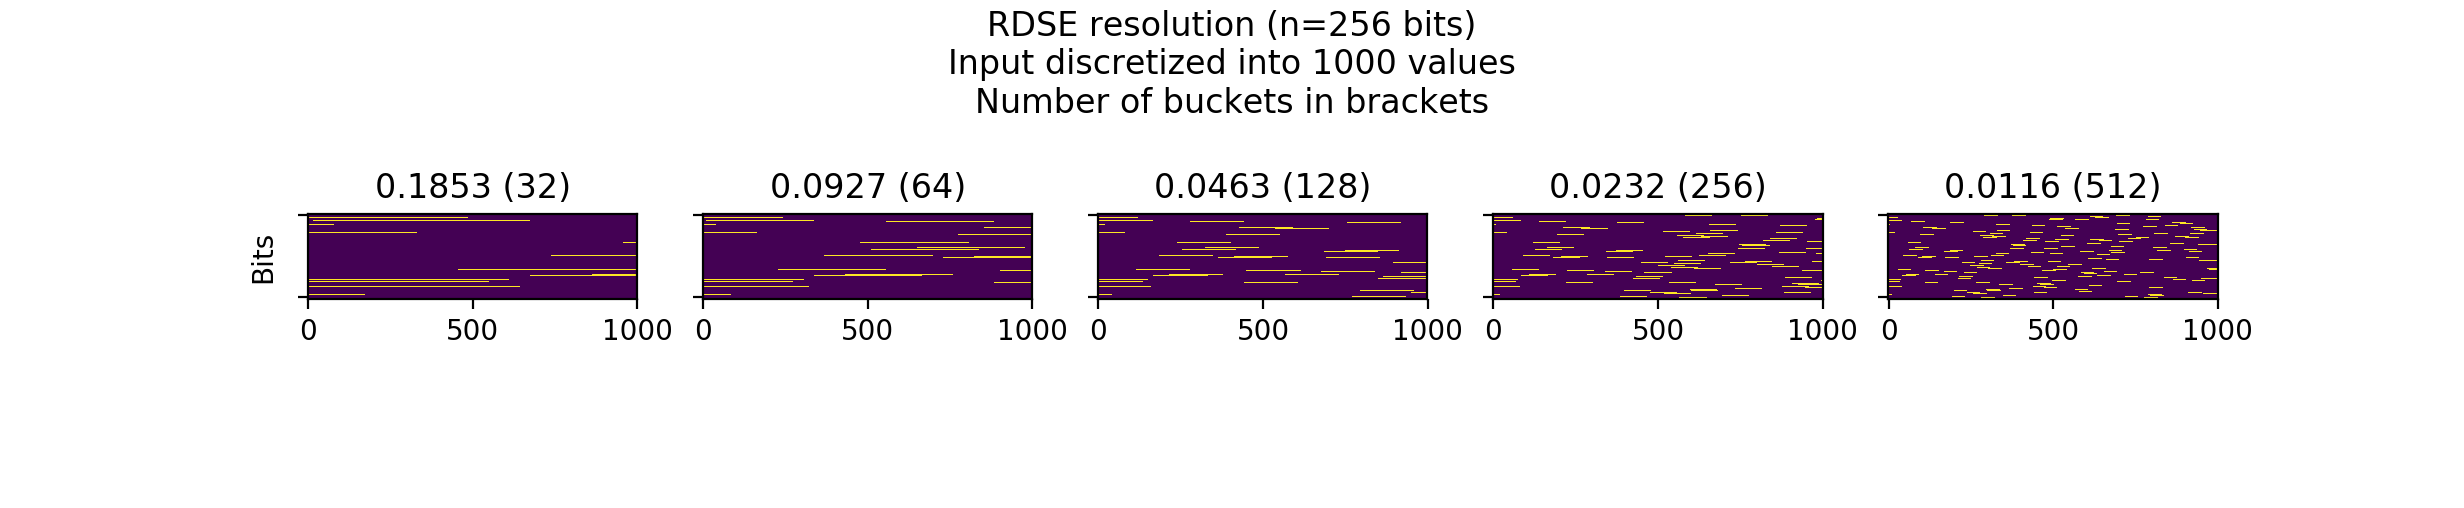
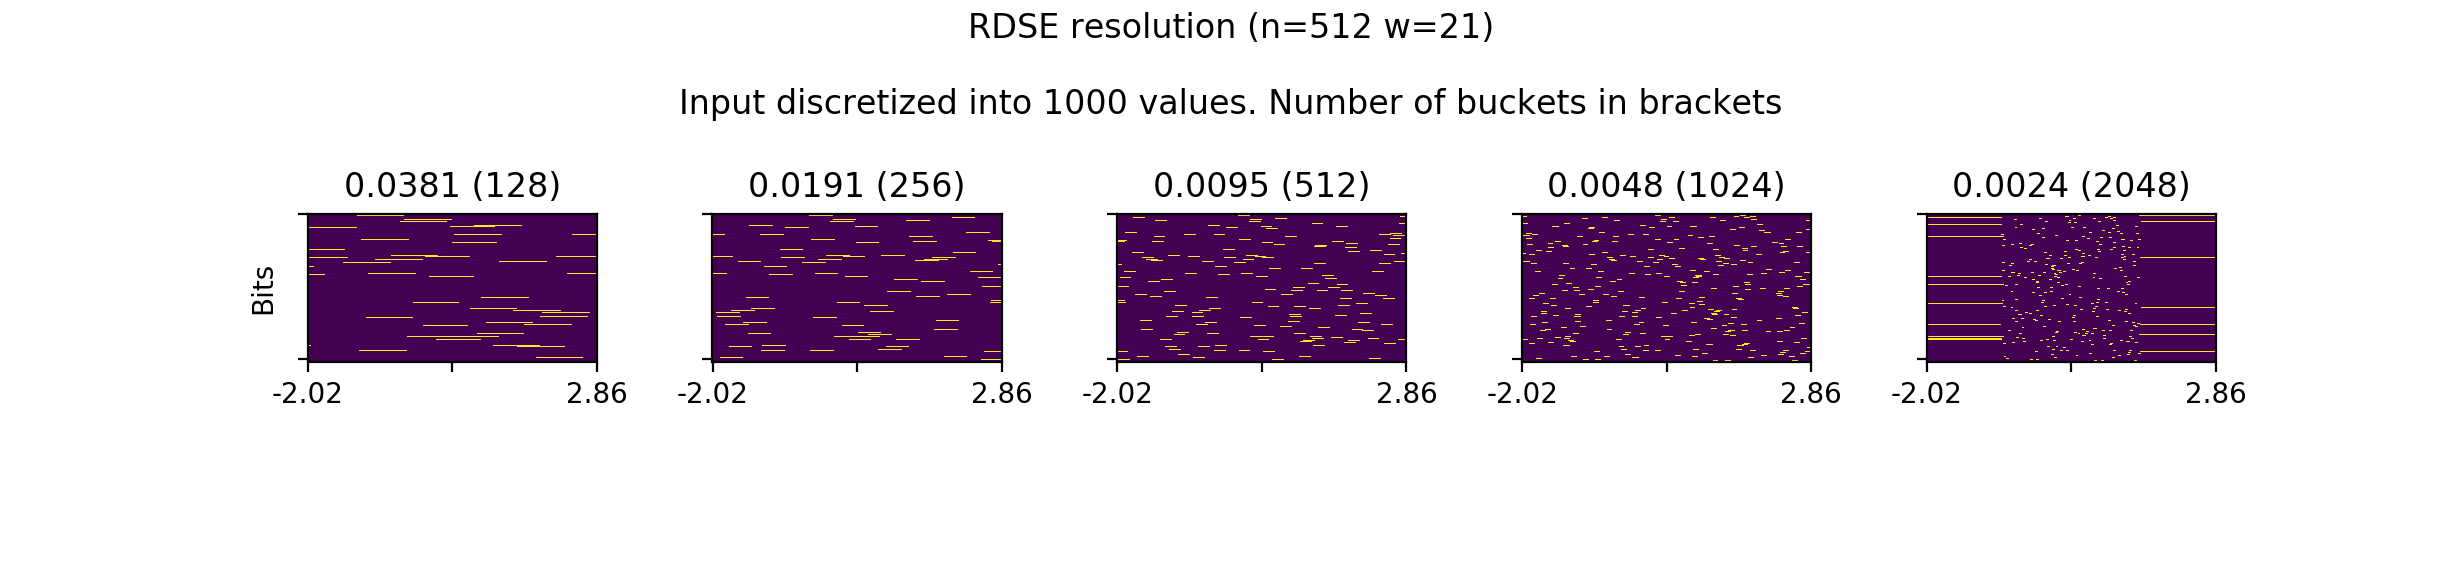
Further work on MFCC comparisons

Changed region(s): [[0.0926, 0.2953, 0.9261, 0.7087], [0.2778, 0.0, 0.7409, 0.2362]]

diff --git a/SpeechRecognition/MFCC/classifier_performance.py b/SpeechRecognition/MFCC/classifier_performance.py
@@ -28,25 +28,58 @@ import yaml
 import timeit
 import random
 import datetime
+import itertools
+import resampy
 import scipy.io.wavfile as wav
+
+# Ref: https://python-speech-features.readthedocs.io/en/latest/
 import python_speech_features as psf
 
+from nupic.encoders.random_distributed_scalar import RandomDistributedScalarEncoder as RDSE
+
 # Python implementations
-# from nupic.algorithms.spatial_pooler import SpatialPooler
+from nupic.algorithms.spatial_pooler import SpatialPooler
 # from nupic.algorithms.temporal_memory import TemporalMemory
 # from nupic.algorithms.sdr_classifier import SDRClassifier
 
 # C++ implementations
-from nupic.bindings.algorithms import SpatialPooler
+# from nupic.bindings.algorithms import SpatialPooler
 from nupic.bindings.algorithms import TemporalMemory
 from nupic.bindings.algorithms import SDRClassifier
 
 
-class WavToSDR:
-  def __init__(self, file_name):
-    self.fs, self.samples = wav.read(file_name)
+def WavToSDR(file_name, desired_samplerate):
+  samplerate, samples = wav.read(file_name)
 
-    self.mfcc_feat = psf.mfcc(self.samples, samplerate=self.fs, winfunc=np.hamming)
+  if not samplerate == desired_samplerate:
+    samples = resampy.resample(samples, samplerate, desired_samplerate)
+    samplerate = desired_samplerate
+
+  MFCCs = psf.mfcc(samples, samplerate=samplerate, numcep=16, nfft=2048, winfunc=np.hanning)
+
+  # Alter the distribution
+  mean = np.mean(MFCCs)
+  stddev = np.std(MFCCs)
+  ndata = (MFCCs - mean) / stddev
+
+  resolution = max(0.001, (np.max(ndata) - np.min(ndata)) / 1024)
+
+  # Fixing n to 256 allows us to use 16 cepstrums (numcep), for
+  # a combined total of 4096 input bits to a Spatial Pooler.
+  rdse = RDSE(resolution=resolution, n=512, w=21, offset=np.mean(ndata))
+
+  sdrs = []
+  for mfcc in ndata:
+    combined = []
+    for coef in mfcc:
+      sdr = np.zeros(rdse.n)
+      rdse.encodeIntoArray(coef, sdr)
+      combined.append(sdr)
+
+    merged = list(itertools.chain.from_iterable(combined))
+    sdrs.append(np.asarray(merged).astype('uint32'))
+
+  return sdrs
 
 
 if __name__ == "__main__":
@@ -56,7 +89,7 @@ if __name__ == "__main__":
 
   total_time = timeit.default_timer()
 
-  datapath = "./free-spoken-digit-dataset/recordings/"
+  data_path = "../free-spoken-digit-dataset/recordings/"
 
   # Use an unheard spoken 'one' sample to test with.
   # test_name = "1_jackson_1.wav"
@@ -64,26 +97,21 @@ if __name__ == "__main__":
   # Use a heard spoken 'one' sample to test with.
   test_name = "1_jackson_0.wav"
 
+  test_sdrs = WavToSDR(data_path + test_name, 50000)
+
   verbose = True
-  show_timing = True
+  show_timing = False
 
   count = 0
 
-  fs, samples = wav.read(datapath + test_name)
+  encoding_width = 8192  # bits
 
-  samples = np.array([float(val) / pow(2, 15) for val in samples])
-
-  encoding_width = 2048  # bits
-
-  offset_start = 10000
-  chunk_size = 10000
-
-  # training_counts = [int(np.power(2, x + 1)) for x in range(0, 5)]
-  training_counts = [2, 4, 8, 16, 32]
+  # training_counts = [int(np.power(2, x)) for x in range(3, 7)]
+  training_counts = [32, 64, 128, 256, 512]
 
   average_predictions = [[], [], [], []]
 
-  with open("model.yaml", "r") as f:
+  with open("../model.yaml", "r") as f:
     modelParams = yaml.safe_load(f)["modelParams"]
 
     spParams = modelParams["spParams"]
@@ -134,10 +162,10 @@ if __name__ == "__main__":
     file_names = []
 
     for j in range(0, training_count):
-      file_names.append(datapath + "0_jackson_0.ngm.npy")
-      file_names.append(datapath + "1_jackson_0.ngm.npy")
-      file_names.append(datapath + "2_jackson_0.ngm.npy")
-      file_names.append(datapath + "3_jackson_0.ngm.npy")
+      file_names.append(data_path + "0_jackson_0.wav")
+      file_names.append(data_path + "1_jackson_0.wav")
+      file_names.append(data_path + "2_jackson_0.wav")
+      file_names.append(data_path + "3_jackson_0.wav")
 
     random.shuffle(file_names)
 
@@ -153,15 +181,14 @@ if __name__ == "__main__":
 
     for i, file_name in enumerate(file_names):
 
-      bucketIdx = int(file_name[len(datapath)])
+      bucketIdx = int(file_name[len(data_path)])
 
-      encoding = np.load(file_name)
-      encoding = encoding[offset_start:offset_start+chunk_size].astype('uint32')
+      encoding = WavToSDR(file_name, 50000)
 
       tm.reset()
 
-      print("Training (#{}/{}): {} ({} SDRs, {:.4f}s)".format(
-        i + 1, training_count, file_name, len(encoding), len(encoding) / fs))
+      print("Training (#{}/{}): {} ({} SDRs)".format(
+        i + 1, training_count, file_name, len(encoding)))
 
       start_time = timeit.default_timer()
 
@@ -206,15 +233,14 @@ if __name__ == "__main__":
     #   cl.writeToFile(f3)
 
     # Test the classifier
-    file_name = datapath + test_name
+    file_name = data_path + test_name
 
-    bucketIdx = int(file_name[len(datapath)])
+    bucketIdx = int(file_name[len(data_path)])
 
-    encoding = np.load(file_name)
-    encoding = encoding[offset_start:offset_start+chunk_size].astype('uint32')
+    encoding = WavToSDR(file_name, 50000)
 
-    print("Testing: {} ({} SDRs, {:.4f}s)".format(
-      file_name, len(encoding), len(encoding) / fs))
+    print("Testing: {} ({} SDRs)".format(
+      file_name, len(encoding)))
 
     tm.reset()
 

diff --git a/SpeechRecognition/MFCC/plot_rdse.py b/SpeechRecognition/MFCC/plot_rdse.py
@@ -23,9 +23,9 @@
 # ----------------------------------------------------------------------
 
 import matplotlib.pyplot as plt
-from matplotlib import cm
 import numpy as np
 import scipy.io.wavfile as wav
+import resampy
 
 # Ref: https://python-speech-features.readthedocs.io/en/latest/
 import python_speech_features as psf
@@ -39,10 +39,16 @@ if __name__ == "__main__":
   test_name = "1_jackson_0.wav"
 
   fs, samples = wav.read(data_path + test_name)
-  # samples = np.array([float(val) / pow(2, 15) for val in samples])
+  samples = np.array([float(val) / pow(2, 15) for val in samples])
+
+  desired_samplerate = 50000
+
+  if not fs == desired_samplerate:
+    samples = resampy.resample(samples, fs, desired_samplerate)
+    fs = desired_samplerate
 
   # Compute MFCC features from an audio signal.
-  MFCCs = psf.mfcc(samples, samplerate=fs, numcep=16, winfunc=np.hanning)
+  MFCCs = psf.mfcc(samples, samplerate=fs, numcep=16, nfft=2048, winfunc=np.hanning)
 
   data = np.swapaxes(MFCCs, 0, 1)
 
@@ -53,21 +59,27 @@ if __name__ == "__main__":
 
   print("MFCC min={}, max={}, mean={}".format(np.min(ndata), np.max(ndata), np.mean(ndata)))
 
-  numBuckets = [int(np.power(2, x)) for x in range(5, 10)]
+  numBuckets = [int(np.power(2, x)) for x in range(7, 12)]
 
   data_range = np.arange(np.min(ndata), np.max(ndata), (np.max(ndata) - np.min(ndata)) / 1000)
 
+  # Fixing n to 512 allows us to use 16 cepstrums (numcep), for
+  # a combined total of 8192 input bits to a Spatial Pooler.
+  n = 512
+  w = 21
+
   fig, ax = plt.subplots(1, len(numBuckets), sharex=True)
-  fig.suptitle('RDSE resolution (n=256 bits)\nInput discretized into 1000 values\nNumber of buckets in brackets')
+  fig.suptitle('RDSE resolution (n={} w={})\n\nInput discretized into 1000 values. Number of buckets in brackets'.format(n, w))
+
+  # Alter wspace to spread out subplots
+  plt.subplots_adjust(left=0.125, bottom=0.1, right=0.9, top=0.9, wspace=0.4, hspace=0.2)
 
   ax[0].set_ylabel('Bits')
 
   for i, num in enumerate(numBuckets):
-    resolution = max(0.001, (np.max(ndata) - np.min(ndata)) / num)
+    resolution = max(0.001, (np.max(data_range) - np.min(data_range)) / num)
 
-    # Fixing n to 256 allows us to use 16 cepstrums (numcep), for
-    # a combined total of 4096 input bits to a Spatial Pooler.
-    rdse = RDSE(resolution=resolution, n=256)
+    rdse = RDSE(resolution=resolution, n=n, w=w, offset=np.mean(data_range))
 
     sdrs = []
     for x in data_range:
@@ -80,5 +92,9 @@ if __name__ == "__main__":
     ax[i].imshow(sdrs)
     ax[i].set_title('{0:.4f} ({1})'.format(resolution, num))
     ax[i].set_yticklabels([])
+    ax[i].set_xticks([0, ax[i].get_xticks()[-1] / 2, ax[i].get_xticks()[-1]])
+    ax[i].set_xticklabels(['{:.2f}'.format(np.min(data_range)), '', '{:.2f}'.format(np.max(data_range))])
+
+    print("{} buckets = {}".format(num, rdse))
 
   plt.show()

diff --git a/SpeechRecognition/MFCC/Readme.md b/SpeechRecognition/MFCC/Readme.md
@@ -1,0 +1,25 @@
+# Mel-frequency cepstral coefficients (MFCCs)
+
+> In sound processing, the mel-frequency cepstrum (MFC) is a representation of the short-term power spectrum of a sound, based on a linear cosine transform of a log power spectrum on a nonlinear mel scale of frequency.
+
+> Mel-frequency cepstral coefficients (MFCCs) are coefficients that collectively make up an MFC[1]. They are derived from a type of cepstral representation of the audio clip (a nonlinear "spectrum-of-a-spectrum"). The difference between the cepstrum and the mel-frequency cepstrum is that in the MFC, the frequency bands are equally spaced on the mel scale, which approximates the human auditory system's response more closely than the linearly-spaced frequency bands used in the normal cepstrum. This frequency warping can allow for better representation of sound, for example, in audio compression.
+
+> MFCCs are commonly derived as follows:[2]
+> 1. Take the Fourier transform of (a windowed excerpt of) a signal.
+> 2. Map the powers of the spectrum obtained above onto the mel scale, using triangular overlapping windows.
+> 3. Take the logs of the powers at each of the mel frequencies.
+> 4. Take the discrete cosine transform of the list of mel log powers, as if it were a signal.
+> 5. The MFCCs are the amplitudes of the resulting spectrum.
+
+Source: https://en.wikipedia.org/wiki/Mel-frequency_cepstrum
+
+
+<img src="./plot_mfcc.png" alt="MFCC" style="width: 400px;"/>
+
+## RDSE encoding
+
+<img src="./plot_rdse.png" alt="RDSE encoding" style="width: 400px;"/>
+
+## Results
+
+<img src="./classifier_performance.png" alt="Classifier performance" style="width: 400px;"/>
